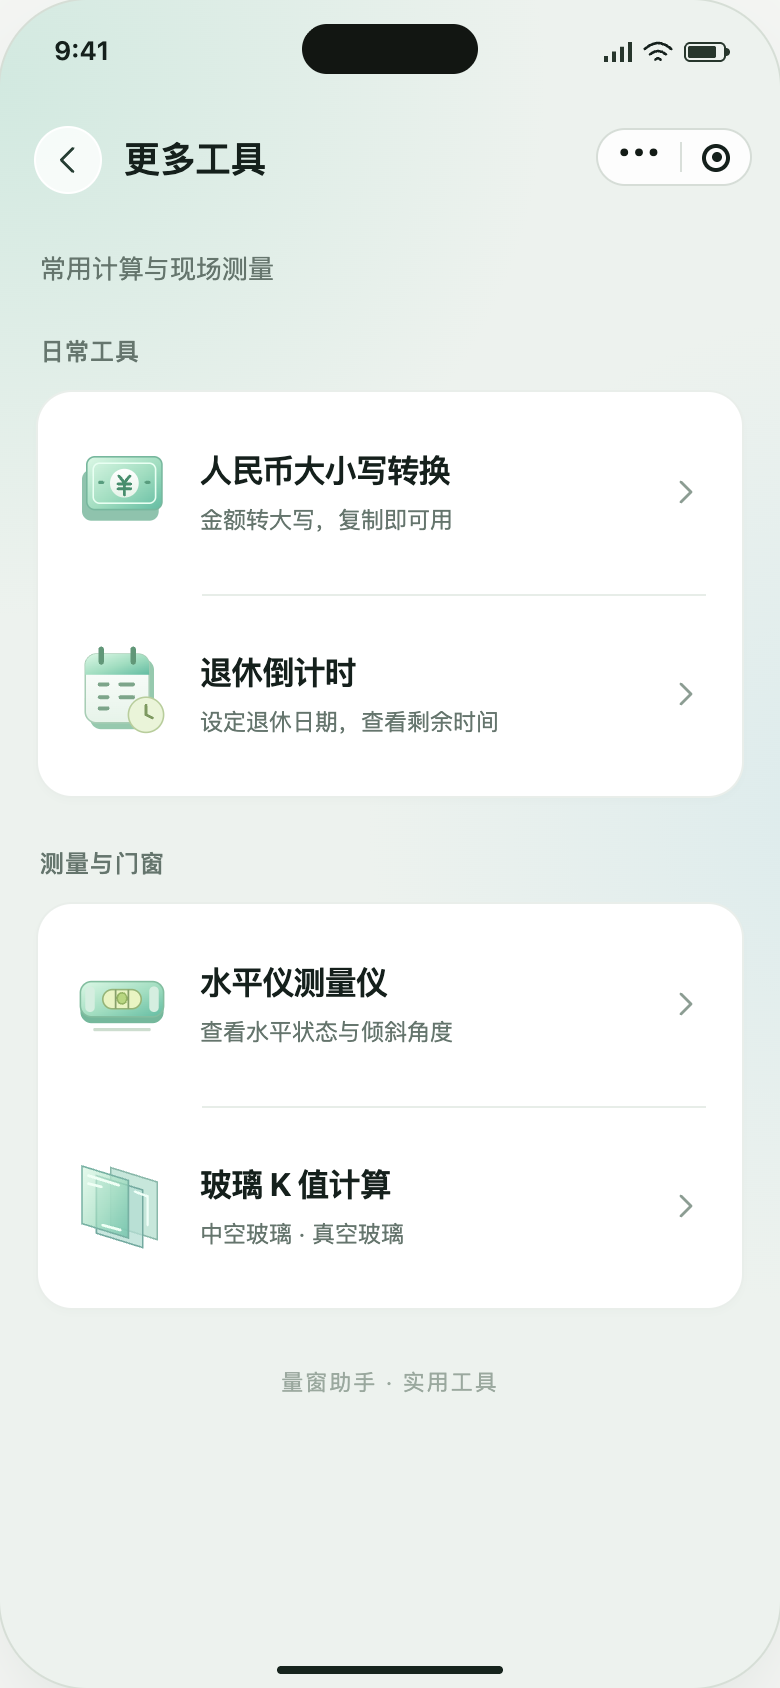
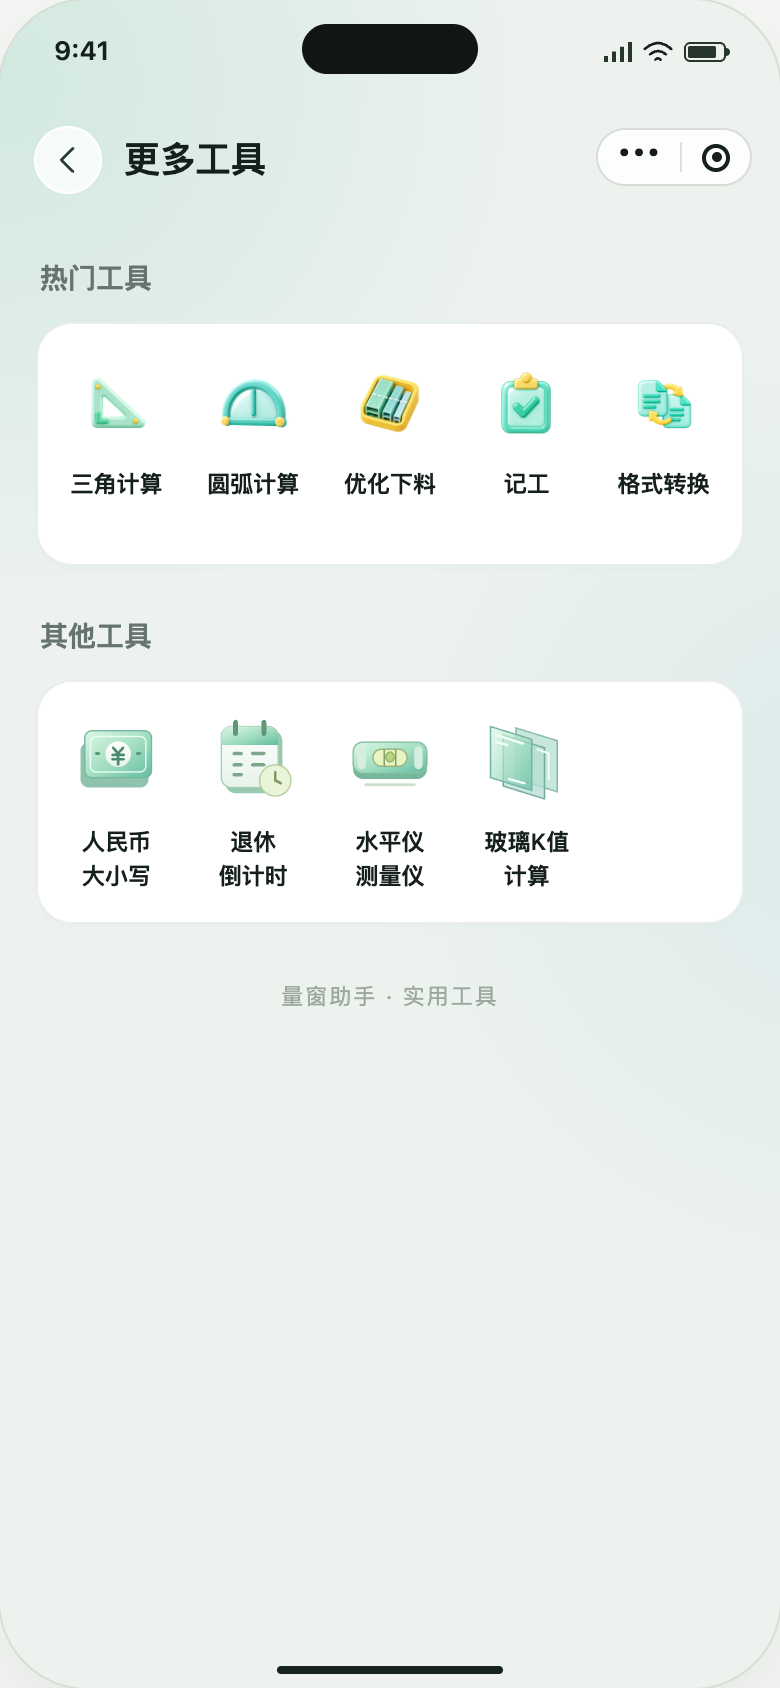
design(ledger): arrange more tools in five-column groups

diff --git a/docs/更多工具设计/prototype.css b/docs/更多工具设计/prototype.css
@@ -8,7 +8,7 @@
 .phone{--ink:#15201c;--muted:#65756d;--faint:#92a197;--green:#0e7c66;--line:#e7ede8;--soft:#eef5f1;position:relative;width:390px;height:844px;overflow:hidden;border-radius:44px;background:radial-gradient(ellipse 100% 45% at 0% 5%,#d2e9e0 0%,transparent 70%),radial-gradient(ellipse 90% 42% at 110% 48%,#dcebec 0%,transparent 70%),#edf2ee;box-shadow:0 0 0 1px #d6ded6,0 18px 50px -18px #254c3b30;color:var(--ink);font-size:15px;line-height:1.5}
 .statusbar{position:absolute;top:0;left:0;right:0;height:52px;display:flex;justify-content:space-between;align-items:center;padding:0 27px;font-size:13px;font-weight:600;z-index:12;pointer-events:none}.island{height:25px;width:88px;background:#121612;border-radius:30px;position:absolute;left:50%;top:12px;transform:translateX(-50%)}.status-icons{display:flex;align-items:center;gap:5px}.status-icons svg{width:16px;height:13px;fill:none;stroke:currentColor;stroke-width:2;stroke-linecap:round}.battery{width:21px;height:10px;border:1px solid #27362c;border-radius:3px;padding:1px;position:relative}.battery:before{content:"";display:block;background:#27362c;height:100%;width:85%;border-radius:1px}.battery:after{content:"";position:absolute;right:-3px;top:2px;width:2px;height:4px;background:#27362c;border-radius:0 2px 2px 0}.signal{width:14px;height:10px;background:linear-gradient(to right,#27362c 2px,transparent 2px 4px,#27362c 4px 6px,transparent 6px 8px,#27362c 8px 10px,transparent 10px 12px,#27362c 12px);clip-path:polygon(0 70%,25% 70%,25% 47%,50% 47%,50% 24%,75% 24%,75% 0,100% 0,100% 100%,0 100%)}
 .app{position:absolute;inset:52px 0 20px;display:flex;flex-direction:column;min-height:0}.nav-header{height:56px;display:flex;align-items:center;gap:11px;padding:0 17px;flex-shrink:0;position:relative}.nav-header h2{font-size:18px;letter-spacing:-.25px;font-weight:650;margin:0;padding-right:86px;line-height:1.25}.nav-back{display:grid;place-items:center;background:#ffffffc9;border:1px solid #ffffff;width:34px;height:34px;border-radius:50%;flex-shrink:0;color:#273e34}.mini-capsule{position:absolute;right:14px;top:12px;display:flex;align-items:center;justify-content:space-evenly;width:78px;height:29px;border:1px solid #d6ddd7;background:#ffffffdc;border-radius:30px;color:#131b16;pointer-events:none}.mini-dots{font-size:20px;font-weight:800;line-height:10px;letter-spacing:1px;margin-top:-7px}.capsule-sep{height:15px;border-left:1px solid #d9dfda}.capsule-ring{width:14px;height:14px;border:2px solid #15201c;border-radius:50%;display:grid;place-items:center}.capsule-ring:after{content:"";width:5px;height:5px;border-radius:50%;background:#15201c}
-.page-body{padding:17px 18px 28px;overflow:auto;scrollbar-width:none;flex:1;min-height:0}.page-body::-webkit-scrollbar{display:none}.page-lead{font-size:13px;color:var(--muted);margin:0 0 22px 2px}.section-label{display:flex;align-items:center;justify-content:space-between;font-size:12px;font-weight:500;color:var(--muted);margin:0 2px 10px;letter-spacing:.5px}.section-label button{border:0;background:none;font-size:12px;color:var(--green);padding:3px 0}.panel{background:#fff;border:1px solid #e9eeea;border-radius:18px;box-shadow:0 2px 3px #203e2e04;overflow:hidden}.section-space{margin-top:24px}.tool-row{width:100%;border:0;display:flex;align-items:center;gap:15px;padding:22px 18px;text-align:left;background:none;position:relative;min-height:101px}.tool-row+.tool-row:before{content:"";position:absolute;top:0;left:82px;right:18px;border-top:1px solid var(--line)}.tool-row:hover{background:#fafcf9}.tool-illustration{width:48px;height:52px;flex:0 0 48px;display:block;overflow:visible}.tool-row-copy{flex:1;min-width:0}.tool-row strong{font-size:16px;font-weight:650;display:block;line-height:1.4;letter-spacing:-.4px}.tool-row small{display:block;color:var(--muted);font-size:11.5px;margin-top:5px;line-height:1.5}.row-chevron{color:#8c9d93;width:16px;height:16px;flex-shrink:0}.hub-foot{margin:28px 0 0;text-align:center;font-size:11px;color:#9aa89e;letter-spacing:1px}.icon{width:20px;height:20px;fill:none;stroke:currentColor;stroke-width:1.7;stroke-linecap:round;stroke-linejoin:round;flex-shrink:0}
+.page-body{padding:17px 18px 28px;overflow:auto;scrollbar-width:none;flex:1;min-height:0}.page-body::-webkit-scrollbar{display:none}.page-lead{font-size:13px;color:var(--muted);margin:0 0 22px 2px}.section-label{display:flex;align-items:center;justify-content:space-between;font-size:12px;font-weight:500;color:var(--muted);margin:0 2px 10px;letter-spacing:.5px}.section-label button{border:0;background:none;font-size:12px;color:var(--green);padding:3px 0}.panel{background:#fff;border:1px solid #e9eeea;border-radius:18px;box-shadow:0 2px 3px #203e2e04;overflow:hidden}.section-space{margin-top:24px}.tool-illustration{width:48px;height:52px;flex:0 0 48px;display:block;overflow:visible}.hub-foot{margin:28px 0 0;text-align:center;font-size:11px;color:#9aa89e;letter-spacing:1px}.icon{width:20px;height:20px;fill:none;stroke:currentColor;stroke-width:1.7;stroke-linecap:round;stroke-linejoin:round;flex-shrink:0}
 .home-heading{padding:9px 18px 16px;position:relative}.home-heading h2{font-size:27px;font-weight:750;letter-spacing:-.8px;margin:0}.home-heading p{font-size:13px;color:var(--muted);margin:3px 0 0}.home-heading .mini-capsule{top:5px}.home-bell{position:absolute;right:106px;top:12px;width:38px;height:38px;border-radius:50%;border:1px solid #edf1ec;background:#fff;box-shadow:0 2px 4px #243f2910;display:grid;place-items:center}.home-bell img{width:32px;height:32px}.home-body{padding-top:2px}.home-tools{padding:15px 5px 0}.home-tool-grid{display:grid;grid-template-columns:repeat(4,minmax(0,1fr))}.home-tool{display:flex;align-items:center;flex-direction:column;padding:4px 0 12px}.home-tool img{width:48px;height:48px;object-fit:contain}.home-tool strong{font-size:13px;font-weight:650;margin-top:7px}.home-tool small{font-size:10.5px;color:var(--muted);margin-top:2px}.home-tool-footer{display:grid;grid-template-columns:minmax(0,1fr) 120px;border-top:1px solid var(--line);min-height:68px}.format-entry{display:flex;gap:12px;align-items:center;padding-left:15px;min-width:0}.format-entry img{width:37px;height:40px;object-fit:contain}.format-entry strong{display:block;font-size:14px;font-weight:650}.format-entry small{display:block;font-size:11px;color:var(--muted);margin-top:1px}.more-entry{border:0;background:none;display:flex;align-items:center;justify-content:center;gap:4px;position:relative;font-size:13px;font-weight:550;color:var(--green)}.more-entry:before{content:"";position:absolute;left:0;top:20px;bottom:20px;border-left:1px solid var(--line)}.more-entry:hover{background:#edf7f2;border-radius:0 0 17px 0}.more-entry .icon{width:15px;height:15px}.profit-panel{background:#f6faf7a8;border:1.5px solid #ffffffe6;border-radius:21px;margin-top:17px;padding:18px;box-shadow:0 14px 20px -15px #2348355c}.segment{display:flex;padding:3px;border-radius:25px;background:#e6ece8;border:1px solid #dde5de;gap:3px}.segment button,.segment span{flex:1;text-align:center;background:transparent;border:0;border-radius:22px;padding:7px 5px;color:var(--muted);font-size:14px;line-height:20px}.segment .selected{background:#fff;color:var(--ink);box-shadow:0 2px 3px #1d402408;font-weight:600}.profit-label{font-size:13px;color:var(--muted);margin:23px 0 3px}.profit-money{font-size:42px;line-height:1.2;color:var(--green);font-weight:650;font-variant-numeric:tabular-nums}.profit-money small{font-size:23px;font-weight:500}.metrics{display:flex;justify-content:space-around;border-top:1px solid #dce6de;border-bottom:1px solid #dce6de;padding:17px 0;margin-top:24px;text-align:center}.metrics strong{display:block;font-size:15px}.metrics small{display:block;font-size:11px;color:var(--faint);margin-top:3px}.goal-row{display:flex;justify-content:space-between;font-size:12px;font-weight:600;margin-top:17px}.goal-row span:last-child{font-size:11px;color:var(--green);background:#d8eae2;border-radius:20px;padding:2px 8px}.goal-track{height:6px;border-radius:5px;background:#e0e9e3;margin-top:9px;width:84%}.home-section{font-size:13px;font-weight:600;color:var(--muted);margin:19px 2px 12px}.analysis-panel{padding:17px;font-size:14px;background:#ffffffb0}.analysis-panel p{font-size:12px;color:var(--faint);text-align:center;margin:23px 0}.home-tabbar{position:absolute;bottom:0;left:12px;right:12px;border-radius:32px;display:flex;align-items:center;justify-content:space-around;background:#f5faf7ed;border:2px solid #fff;box-shadow:0 13px 20px #173f3530;height:72px;z-index:5;padding:5px}.home-tab{width:59px;text-align:center;color:#557366;font-size:10px;font-weight:600}.home-tab.active{background:#fff;border-radius:26px;height:62px;display:flex;flex-direction:column;align-items:center;justify-content:center;color:var(--green)}.home-tab img{display:block;margin:0 auto 3px;height:28px;width:28px;object-fit:contain}.tab-add{display:grid;place-items:center;width:58px;height:58px;background:radial-gradient(at 34% 25%,#48bfa7,#087762);border:3px solid #fff;border-radius:50%;color:white;font-size:41px;font-weight:300;box-shadow:0 4px 12px #11695230;line-height:1}.home-indicator{position:absolute;width:113px;height:4px;bottom:7px;left:50%;transform:translateX(-50%);border-radius:4px;background:#16241d;z-index:50}
 .field-panel{padding:19px 20px}.field-label{display:flex;align-items:center;justify-content:space-between;color:var(--muted);font-size:12px;margin-bottom:15px}.amount-line{display:flex;align-items:center;gap:10px}.currency-symbol{color:#74988a;font-size:27px;line-height:1}.amount-input{width:100%;min-width:0;border:0;background:transparent;font-size:34px;font-weight:550;letter-spacing:-1px;color:var(--ink);outline-offset:4px!important;line-height:1.3;font-variant-numeric:tabular-nums;padding:0}.amount-input::placeholder{font-weight:400;color:#b9c7be;font-size:30px}.clear-input{height:32px;width:32px;display:grid;place-items:center;border:0;border-radius:50%;background:none;color:#9dad9f;flex-shrink:0}.clear-input .icon{width:16px;height:16px}.field-foot{font-size:11px;color:#8b9a90;margin:14px 0 0}.field-foot.error{color:#bd543d}.result-panel{margin-top:16px;padding:20px;background:#f8fcf9;border:1px solid #d8e8de;position:relative}.result-eyebrow{color:#607c6d;font-size:12px;margin:0}.uppercase-output{font-size:24px;line-height:1.7;font-weight:600;letter-spacing:1px;color:#176c56;margin:16px 0 20px;overflow-wrap:anywhere}.result-sub{font-size:12px;color:var(--muted);border-top:1px solid #e0eae1;padding-top:15px;display:flex;justify-content:space-between;align-items:center}.text-button{color:var(--green);background:none;border:0;font-size:12px;display:flex;align-items:center;gap:5px;padding:6px 0}.text-button .icon{width:14px;height:14px}.primary{height:48px;border:0;border-radius:16px;background:var(--green);color:#fff;font-weight:600;font-size:15px;display:flex;align-items:center;justify-content:center;gap:8px;width:100%;line-height:1}.secondary{height:48px;border:1px solid #cbddd2;border-radius:16px;background:#fff;color:var(--green);font-weight:550;font-size:14px;display:flex;align-items:center;justify-content:center;gap:6px;line-height:1}.primary:hover{background:#096e58}.secondary:hover{background:#f7fbf8}.primary .icon,.secondary .icon{width:17px;height:17px}.action-gap{margin-top:23px}.quiet-help{font-size:11px;line-height:1.8;color:#8a9a8e;margin:14px 5px;text-align:center}.hint-block{margin:25px 4px 0;line-height:1.9;color:#7b8e7e;font-size:12px}.hint-block h3{font-size:12px;font-weight:600;color:#546e5a;margin:0 0 5px}.hint-block p{margin:0}.empty-result{color:#9bac9e;font-size:15px;margin:26px 0;line-height:1.7}.empty-result .icon{display:block;margin-bottom:10px;width:25px;height:25px;stroke-width:1.2}.demo-mark{font-size:10px;background:#edf2e9;color:#687a5e;border-radius:5px;padding:2px 6px;font-weight:400;letter-spacing:0}.label-row{display:flex;align-items:center;justify-content:space-between;gap:10px}.card-heading{font-size:15px;font-weight:600;margin:0}.retire-hero{text-align:center;padding:31px 18px 27px;background:linear-gradient(165deg,#fcfefb,#edf6ef);border-color:#d8e7da}.retire-hero .tool-illustration{margin:0 auto 18px;width:47px;height:49px}.retire-hero .result-eyebrow{font-size:13px;color:#708570}.countdown{display:flex;justify-content:center;gap:17px;margin:16px 0 23px;align-items:baseline}.countdown strong{font-size:42px;font-weight:500;line-height:1;color:#215d44;font-variant-numeric:tabular-nums;letter-spacing:-2px}.countdown span{font-size:12px;color:#7d927f;margin-left:5px}.countdown-total{padding-top:19px;border-top:1px solid #dce8db;font-size:12px;color:#66846c}.countdown-total b{font-size:15px;font-weight:600;margin:0 4px}.settings-row{width:100%;display:flex;align-items:center;justify-content:space-between;gap:12px;min-height:65px;padding:15px 18px;background:none;border:0;text-align:left;font-size:13px}.settings-row+.settings-row{border-top:1px solid var(--line)}.settings-value{display:flex;align-items:center;gap:8px;color:#647b69;font-size:13px}.settings-value .icon{width:13px;height:13px}.retire-empty{padding:41px 24px;text-align:center}.retire-empty .tool-illustration{height:64px;width:64px;margin:0 auto 25px}.retire-empty h3{font-size:18px;font-weight:600;margin:0 0 10px}.retire-empty p{font-size:12px;color:var(--muted);line-height:1.8;margin:0 0 28px}.date-tag{display:inline-flex;align-items:center;gap:7px;font-size:12px;color:#617c69;margin-top:18px}.date-tag .icon{width:14px;height:14px}
 .level-tabs{margin:0 0 22px}.instrument-panel{padding:22px 17px 23px;text-align:center}.instrument-heading{font-size:12px;color:var(--muted);display:flex;align-items:center;justify-content:center;gap:6px}.green-dot{width:5px;height:5px;display:inline-block;background:#2e9870;border-radius:50%}.dial{position:relative;width:236px;height:236px;border:1px solid #d9e4dc;border-radius:50%;margin:25px auto 18px;background:radial-gradient(circle,#f9fcf9 0 33%,#f0f6ef 33.5% 34%,#fafcf9 34.5% 60%,#e4eee6 60.5% 61%,#f4f8f2 61.5%);overflow:hidden;box-shadow:inset 0 2px 9px #203d2707}.dial:before,.dial:after{content:"";position:absolute;background:#d2dfd3;left:50%;top:17px;bottom:17px;width:1px}.dial:after{top:50%;left:17px;right:17px;width:auto;height:1px;bottom:auto}.dial-tick{position:absolute;font-size:9px;color:#8fa393;z-index:1}.tick-top{top:9px;left:calc(50% - 8px)}.tick-bottom{bottom:9px;left:calc(50% - 8px)}.tick-left{left:8px;top:calc(50% - 7px)}.tick-right{right:8px;top:calc(50% - 7px)}.target-ring{position:absolute;width:55px;height:55px;border-radius:50%;border:1px solid #60a281;left:calc(50% - 27.5px);top:calc(50% - 27.5px);z-index:2}.bubble{position:absolute;left:calc(50% - 24px);top:calc(50% - 34px);width:48px;height:48px;border-radius:50%;background:radial-gradient(circle at 35% 27%,#d7f2c8,#7fbd91 66%,#60a77e);border:1px solid #61a377;box-shadow:inset 1px 2px 4px #ffffffb3,0 2px 4px #49794d1c;z-index:3;transition:transform .4s ease}.bubble:after{content:"";position:absolute;height:3px;width:3px;background:#397b52;border-radius:50%;left:calc(50% - 1.5px);top:calc(50% - 1.5px)}.level-reading{font-size:43px;line-height:1.2;font-weight:500;color:#225d46;letter-spacing:-2px;font-variant-numeric:tabular-nums}.level-state{font-size:12px;color:#5b7b62;margin-top:7px}.axis-readings{display:grid;grid-template-columns:1fr 1fr;margin-top:24px;border-top:1px solid var(--line);padding-top:17px}.axis-readings div+div{border-left:1px solid var(--line)}.axis-readings small{font-size:11px;color:#8a9b8d;display:block}.axis-readings strong{display:block;font-size:18px;font-weight:500;color:#4b6855;margin-top:4px}.button-pair{display:grid;grid-template-columns:1fr 1fr;gap:12px;margin-top:19px}.sensor-missing{text-align:center;padding:45px 25px}.sensor-missing .icon{height:44px;width:44px;stroke-width:1.1;color:#7d9b85;margin:0 0 22px}.sensor-missing h3{font-size:18px;margin:0 0 12px;font-weight:600}.sensor-missing p{font-size:12px;color:var(--muted);line-height:1.9;margin:0 0 29px}.inclinometer{height:236px;display:flex;align-items:center;position:relative;margin:25px auto 18px;overflow:hidden;border-radius:12px;background:linear-gradient(#f9fcf9 49.5%,#d0e3d4 49.5% 50%,#edf5ec 50%)}.incline-line{position:absolute;left:15px;right:15px;top:50%;height:2px;background:#499570;transform:rotate(-8deg);transform-origin:center;transition:transform .3s}.incline-line:after{content:"";width:14px;height:14px;border-radius:50%;position:absolute;top:-6px;left:calc(50% - 7px);background:#6eb589;border:3px solid #fff;box-shadow:0 0 0 1px #6baf84}.incline-label{position:absolute;left:8px;top:calc(50% - 24px);font-size:10px;color:#89a68f}
@@ -16,6 +16,17 @@
 .toast{position:absolute;bottom:70px;left:50%;transform:translateX(-50%);max-width:86%;width:max-content;padding:11px 17px;color:#fff;background:#183d2feb;border-radius:12px;font-size:12px;text-align:center;z-index:80;opacity:0;pointer-events:none;transition:opacity .15s}.toast.show{opacity:1}.sheet-backdrop{position:absolute;inset:0;background:#17312a52;z-index:55;display:flex;align-items:flex-end}.sheet{width:100%;padding:23px 23px 35px;background:#fff;border-radius:25px 25px 0 0;box-shadow:0 -7px 35px #132d2512}.sheet-heading{display:flex;align-items:center;justify-content:space-between;margin-bottom:22px}.sheet-heading h3{font-size:18px;font-weight:600;margin:0}.sheet-close{display:grid;place-items:center;width:30px;height:30px;background:none;border:0;color:#90a194}.sheet p{font-size:12px;color:#7d9184;line-height:1.9;margin:0 0 20px}.sheet input{width:100%;height:49px;border:1px solid #dce7de;border-radius:12px;background:#f6faf7;padding:0 13px;font-size:17px;color:#254e38;margin:0 0 21px;min-width:0}.sheet-option{width:100%;height:49px;border:0;background:none;display:flex;justify-content:space-between;align-items:center;font-size:14px;border-top:1px solid #eef2ec}.sheet-option.chosen{color:var(--green)}.sheet-option .icon{width:17px;height:17px}.sheet-error{color:#b4533e!important;margin-top:-10px!important}.sheet input[type=date]{appearance:none}
 @media(min-width:1300px){.review-stage{padding-top:38px}.review-canvas{padding-top:32px}}@media(max-width:780px){.studio{grid-template-columns:180px minmax(0,1fr)}.review-nav{padding:25px 15px}.review-stage{padding:25px 18px}.review-heading h1{font-size:18px}.state-control{flex-direction:column;align-items:flex-end;gap:4px}.review-heading{gap:8px}.review-note{font-size:11px}}
 @media(max-width:620px){.studio{display:block}.review-nav{border:0;padding:15px 16px 10px;gap:14px}.studio-brand{font-size:14px}.brand-mark{width:30px;height:33px;font-size:18px}.studio-brand small{font-size:10px;margin-top:3px}.review-nav nav{display:flex;gap:5px;overflow:auto;scrollbar-width:none;padding-bottom:4px}.page-link{white-space:nowrap;font-size:11px;min-height:34px;padding:7px 10px;gap:6px}.review-note,.source-link{display:none}.review-stage{padding:15px 10px 20px}.review-heading{padding:0 9px;gap:8px}.eyebrow{display:none}.review-heading h1{font-size:16px}.state-control{flex-direction:row;font-size:10px}.state-control select{font-size:11px;padding:6px 20px 6px 7px}.review-canvas{padding-top:18px}.phone{width:min(390px,calc(100vw - 20px));height:844px;border-radius:32px}.design-caption{font-size:11px}.nav-header h2{font-size:16px}.phone .page-body{padding-left:16px;padding-right:16px}}
-@media(max-width:370px){.phone{font-size:14px}.mini-capsule{width:68px;right:12px}.nav-header{gap:7px;padding-left:14px}.nav-header h2{font-size:15px;padding-right:68px}.nav-back{width:30px;height:30px}.home-heading h2{font-size:25px}.home-bell{right:92px;width:33px;height:33px}.home-bell img{width:28px;height:28px}.home-tool-footer{grid-template-columns:minmax(0,1fr) 100px}.more-entry{font-size:12px}.format-entry{padding-left:10px;gap:8px}.tool-row{gap:12px;padding:20px 14px}.tool-row strong{font-size:14px}.tool-row small{font-size:10.5px}.countdown{gap:12px}.countdown strong{font-size:36px}.dial{width:215px;height:215px}.glass-out-label{margin-right:5px}.glass-in-label{margin-left:5px}.amount-input{font-size:29px}.home-tool strong{font-size:12px}}
+@media(max-width:370px){.phone{font-size:14px}.mini-capsule{width:68px;right:12px}.nav-header{gap:7px;padding-left:14px}.nav-header h2{font-size:15px;padding-right:68px}.nav-back{width:30px;height:30px}.home-heading h2{font-size:25px}.home-bell{right:92px;width:33px;height:33px}.home-bell img{width:28px;height:28px}.home-tool-footer{grid-template-columns:minmax(0,1fr) 100px}.more-entry{font-size:12px}.format-entry{padding-left:10px;gap:8px}.countdown{gap:12px}.countdown strong{font-size:36px}.dial{width:215px;height:215px}.glass-out-label{margin-right:5px}.glass-in-label{margin-left:5px}.amount-input{font-size:29px}.home-tool strong{font-size:12px}}
 .tool-illustration path:not([fill]){fill:none}
 @media(prefers-reduced-motion:reduce){*{scroll-behavior:auto!important;transition:none!important}}
+
+/* 工具总览：固定五列，最后一行按自然顺序留空。 */
+.hub-body{padding-top:20px}
+.hub-section-title{font-size:14px;font-weight:600;letter-spacing:0;margin-bottom:12px}
+.hub-grid{display:grid;grid-template-columns:repeat(5,minmax(0,1fr));gap:18px 0;padding:18px 5px 15px}
+.hub-tool{display:flex;flex-direction:column;align-items:center;gap:9px;min-width:0;min-height:84px;width:100%;padding:0 1px;border:0;border-radius:12px;background:none;color:var(--ink)}
+.hub-tool:hover{background:#f4f8f4}
+.hub-tool-media{display:flex;align-items:center;justify-content:center;width:44px;height:44px;max-width:100%;flex-shrink:0}
+.hub-tool-media img,.hub-tool-media .tool-illustration{display:block;width:44px;height:44px;max-width:100%;object-fit:contain;flex:0 1 44px}
+.hub-tool-label{font-size:11.5px;font-weight:550;line-height:17px;min-height:34px;text-align:center}
+@media(max-width:370px){.hub-tool-label{font-size:11px}.hub-tool-media,.hub-tool-media img,.hub-tool-media .tool-illustration{width:40px;height:40px}}

diff --git a/docs/更多工具设计/overview.html b/docs/更多工具设计/overview.html
@@ -10,7 +10,7 @@
 </head>
 <body><div class="board"><header><div><p>量窗助手 / UI DESIGN</p><h1>更多工具</h1></div><a href="index.html">打开可点击设计稿 ↗</a></header><main>
   <article><a href="index.html#home"><h2><span>01</span>首页 · 增加更多工具入口</h2><img src="previews/home.png" alt="首页，格式转换右侧增加更多工具"></a></article>
-  <article><a href="index.html#tools"><h2><span>02</span>更多工具 · 分组列表</h2><img src="previews/tools.png" alt="日常工具、测量与门窗四个工具入口"></a></article>
+  <article><a href="index.html#tools"><h2><span>02</span>更多工具 · 五列网格</h2><img src="previews/tools.png" alt="热门工具五项、其他工具四项，固定五列并留空位"></a></article>
   <article><a href="index.html#rmb"><h2><span>03</span>人民币大小写转换</h2><img src="previews/rmb.png" alt="金额输入、大写结果与复制按钮"></a></article>
   <article><a href="index.html#retire"><h2><span>04</span>退休倒计时</h2><img src="previews/retire.png" alt="退休日期、剩余年月日与总天数"></a></article>
   <article><a href="index.html#level"><h2><span>05</span>水平仪测量仪</h2><img src="previews/level.png" alt="水平读数、气泡、校准与锁定，演示状态"></a></article>

diff --git a/docs/更多工具设计/DESIGN.md b/docs/更多工具设计/DESIGN.md
@@ -9,14 +9,14 @@
 - 工具白卡圆角 **18px**，主按钮 **16px**，与首页工具卡、全局按钮保持一致。控件文字使用 flex 居中。
 - 图标使用同一组薄荷绿具象图形：钞票、日历、水平尺、玻璃片。保留首页原有图标素材。
 - 顶部独立预留状态栏和微信胶囊区域。详情页带返回；二级页面不重复显示首页底部导航。
-- 总览分为“日常工具”和“测量与门窗”，每项整行可点；四项内容无需搜索、分页加载或额外筛选。
+- 总览分为“热门工具”和“其他工具”，两组统一固定五列、多行排布。热门工具依次为三角计算、圆弧计算、优化下料、记工、格式转换；其他工具为新增四项，第五格留空。后续新增工具自然换行，末行不居中、不拉伸。窄屏保持五列，长名称分两行。
 
 ## 页面与状态
 
 | 页面 | 输入与主要操作 | 已设计状态 |
 | --- | --- | --- |
 | 首页 | “更多工具”右侧入口 | 保留原有工具、经营概览 |
-| 更多工具 | 四个整行工具入口 | 分组、简短用途说明、返回 |
+| 更多工具 | 五个热门工具、新增四个其他工具 | 两组五列网格、末行留空、返回 |
 | 人民币大小写转换 | 金额输入、清空、复制大写 | 空白、即时结果、非法输入、金额上限、复制反馈 |
 | 退休倒计时 | 设置或修改退休日期 | 未设置、剩余年月日和总天数、已到设定日期、日期弹层 |
 | 水平仪测量仪 | 水平/倾角切换、校准、锁定读数 | 演示读数、校准确认、参考零点、锁定、传感器不可用 |
@@ -72,6 +72,8 @@ node --test docs/更多工具设计/prototype-logic.test.mjs
 本设计稿尚不代表微信开发者工具编译或真机传感器、玻璃计算验收。
 
 ## 验证结果
+
+- 五列网格修订：320、375、390、430px 与桌面检查通过；热门 5 项、其他 4 项，末格留空；临时加入第 6 项验证自然换到第二行第一列。四个新增工具跳转和返回正常。
 
 - 金额与日期辅助逻辑：5 组测试通过。
 - Edge 浏览器：320、375、430、1440px 下共 64 组页面/状态检查通过，无横向溢出、导航标题折行或图片缺失。
